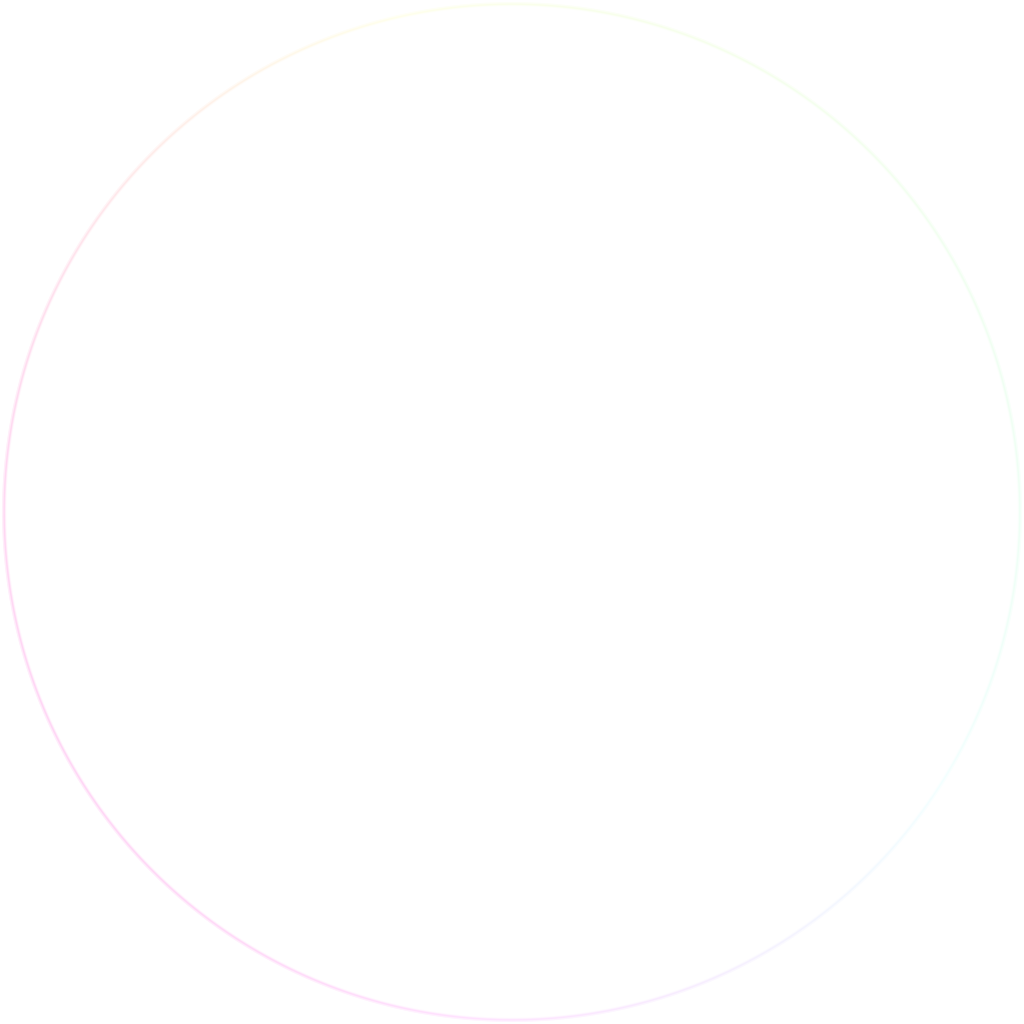
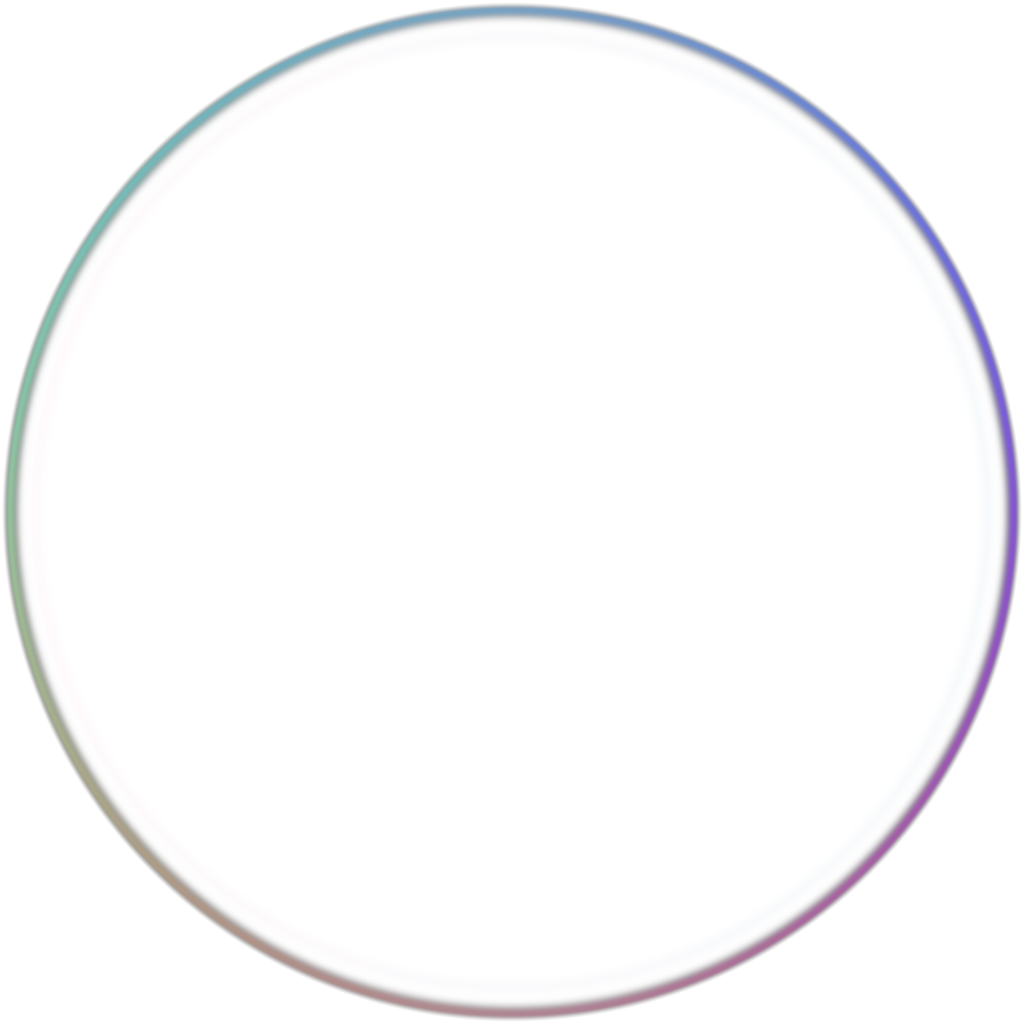
Ship v19 soap-bubble glass overlay (transparent center)
Regenerate orb-glass.png as a thin iridescent film: clear center,
sharp rim, top speculars, faint inner ring. Cache-bust to v=19
and keep the start page at one orb with no milk or blur.

diff --git a/assets/css/theme.css b/assets/css/theme.css
@@ -172,7 +172,7 @@ body.home:not(.has-article) .stage {
   background: transparent;
   backdrop-filter: none;
   -webkit-backdrop-filter: none;
-  border: 1px solid rgba(255, 255, 255, 0.42);
+  border: 1px solid rgba(255, 255, 255, 0.55);
   box-shadow: none;
   overflow: hidden;
   clip-path: circle(50%);
@@ -187,7 +187,7 @@ body.home:not(.has-article) .stage {
   position: absolute;
   inset: 0;
   border-radius: 50%;
-  background: url("../img/orb-glass.png?v=18") center / 100% 100% no-repeat;
+  background: url("../img/orb-glass.png?v=19") center / 100% 100% no-repeat;
   pointer-events: none;
   z-index: 2;
   mix-blend-mode: normal;

diff --git a/anlaggning.html b/anlaggning.html
@@ -8,7 +8,7 @@
   <link rel="preconnect" href="https://fonts.googleapis.com">
   <link rel="preconnect" href="https://fonts.gstatic.com" crossorigin>
   <link href="https://fonts.googleapis.com/css2?family=Inter:wght@400;500;650&display=swap" rel="stylesheet">
-  <link rel="stylesheet" href="assets/css/site.css?v=18">
+  <link rel="stylesheet" href="assets/css/site.css?v=19">
   <link rel="stylesheet" href="assets/css/landings.css?v=7">
 </head>
 <body class="home has-article landing-anlagg" data-intent="garden.anlaggning">

diff --git a/plantering.html b/plantering.html
@@ -8,7 +8,7 @@
   <link rel="preconnect" href="https://fonts.googleapis.com">
   <link rel="preconnect" href="https://fonts.gstatic.com" crossorigin>
   <link href="https://fonts.googleapis.com/css2?family=Inter:wght@400;500;650&display=swap" rel="stylesheet">
-  <link rel="stylesheet" href="assets/css/site.css?v=18">
+  <link rel="stylesheet" href="assets/css/site.css?v=19">
   <link rel="stylesheet" href="assets/css/landings.css?v=7">
 </head>
 <body class="home has-article landing-plantera" data-intent="garden.plantera">

diff --git a/beskarning.html b/beskarning.html
@@ -8,7 +8,7 @@
   <link rel="preconnect" href="https://fonts.googleapis.com">
   <link rel="preconnect" href="https://fonts.gstatic.com" crossorigin>
   <link href="https://fonts.googleapis.com/css2?family=Inter:wght@400;500;650&display=swap" rel="stylesheet">
-  <link rel="stylesheet" href="assets/css/site.css?v=18">
+  <link rel="stylesheet" href="assets/css/site.css?v=19">
   <link rel="stylesheet" href="assets/css/landings.css?v=7">
 </head>
 <body class="home has-article landing-beskar" data-intent="garden.beskar">

diff --git a/robotgrasklippare-goteborg.html b/robotgrasklippare-goteborg.html
@@ -8,7 +8,7 @@
   <link rel="preconnect" href="https://fonts.googleapis.com">
   <link rel="preconnect" href="https://fonts.gstatic.com" crossorigin>
   <link href="https://fonts.googleapis.com/css2?family=Inter:wght@400;500;650&display=swap" rel="stylesheet">
-  <link rel="stylesheet" href="assets/css/site.css?v=18">
+  <link rel="stylesheet" href="assets/css/site.css?v=19">
   <link rel="stylesheet" href="assets/css/landings.css?v=7">
 </head>
 <body class="home has-article landing-robot" data-intent="robot.service">

diff --git a/robotgrasklippare-kungsbacka.html b/robotgrasklippare-kungsbacka.html
@@ -8,7 +8,7 @@
   <link rel="preconnect" href="https://fonts.googleapis.com">
   <link rel="preconnect" href="https://fonts.gstatic.com" crossorigin>
   <link href="https://fonts.googleapis.com/css2?family=Inter:wght@400;500;650&display=swap" rel="stylesheet">
-  <link rel="stylesheet" href="assets/css/site.css?v=18">
+  <link rel="stylesheet" href="assets/css/site.css?v=19">
   <link rel="stylesheet" href="assets/css/landings.css?v=7">
 </head>
 <body class="home has-article landing-robot" data-intent="robot.service">

diff --git a/robotgrasklippare-varberg.html b/robotgrasklippare-varberg.html
@@ -8,7 +8,7 @@
   <link rel="preconnect" href="https://fonts.googleapis.com">
   <link rel="preconnect" href="https://fonts.gstatic.com" crossorigin>
   <link href="https://fonts.googleapis.com/css2?family=Inter:wght@400;500;650&display=swap" rel="stylesheet">
-  <link rel="stylesheet" href="assets/css/site.css?v=18">
+  <link rel="stylesheet" href="assets/css/site.css?v=19">
   <link rel="stylesheet" href="assets/css/landings.css?v=7">
 </head>
 <body class="home has-article landing-robot" data-intent="robot.service">

diff --git a/robotgrasklippare.html b/robotgrasklippare.html
@@ -8,7 +8,7 @@
   <link rel="preconnect" href="https://fonts.googleapis.com">
   <link rel="preconnect" href="https://fonts.gstatic.com" crossorigin>
   <link href="https://fonts.googleapis.com/css2?family=Inter:wght@400;500;650&display=swap" rel="stylesheet">
-  <link rel="stylesheet" href="assets/css/site.css?v=18">
+  <link rel="stylesheet" href="assets/css/site.css?v=19">
   <link rel="stylesheet" href="assets/css/landings.css?v=7">
 </head>
 <body class="home has-article landing-robot" data-intent="robot.service">

diff --git a/altantvatt.html b/altantvatt.html
@@ -8,7 +8,7 @@
   <link rel="preconnect" href="https://fonts.googleapis.com">
   <link rel="preconnect" href="https://fonts.gstatic.com" crossorigin>
   <link href="https://fonts.googleapis.com/css2?family=Inter:wght@400;500;650&display=swap" rel="stylesheet">
-  <link rel="stylesheet" href="assets/css/site.css?v=18">
+  <link rel="stylesheet" href="assets/css/site.css?v=19">
   <link rel="stylesheet" href="assets/css/landings.css?v=7">
 </head>
 <body class="home has-article landing-altan" data-intent="garden.altan">

diff --git a/ograsrensning.html b/ograsrensning.html
@@ -8,7 +8,7 @@
   <link rel="preconnect" href="https://fonts.googleapis.com">
   <link rel="preconnect" href="https://fonts.gstatic.com" crossorigin>
   <link href="https://fonts.googleapis.com/css2?family=Inter:wght@400;500;650&display=swap" rel="stylesheet">
-  <link rel="stylesheet" href="assets/css/site.css?v=18">
+  <link rel="stylesheet" href="assets/css/site.css?v=19">
   <link rel="stylesheet" href="assets/css/landings.css?v=7">
 </head>
 <body class="home has-article landing-ogras" data-intent="garden.ogras">

diff --git a/grasklippning.html b/grasklippning.html
@@ -8,7 +8,7 @@
   <link rel="preconnect" href="https://fonts.googleapis.com">
   <link rel="preconnect" href="https://fonts.gstatic.com" crossorigin>
   <link href="https://fonts.googleapis.com/css2?family=Inter:wght@400;500;650&display=swap" rel="stylesheet">
-  <link rel="stylesheet" href="assets/css/site.css?v=18">
+  <link rel="stylesheet" href="assets/css/site.css?v=19">
   <link rel="stylesheet" href="assets/css/landings.css?v=7">
 </head>
 <body class="home has-article landing-grass" data-intent="garden.gras">

diff --git a/hackklippning-goteborg.html b/hackklippning-goteborg.html
@@ -8,7 +8,7 @@
   <link rel="preconnect" href="https://fonts.googleapis.com">
   <link rel="preconnect" href="https://fonts.gstatic.com" crossorigin>
   <link href="https://fonts.googleapis.com/css2?family=Inter:wght@400;500;650&display=swap" rel="stylesheet">
-  <link rel="stylesheet" href="assets/css/site.css?v=18">
+  <link rel="stylesheet" href="assets/css/site.css?v=19">
   <link rel="stylesheet" href="assets/css/landings.css?v=7">
 </head>
 <body class="home has-article landing-hack" data-intent="garden.hack">
